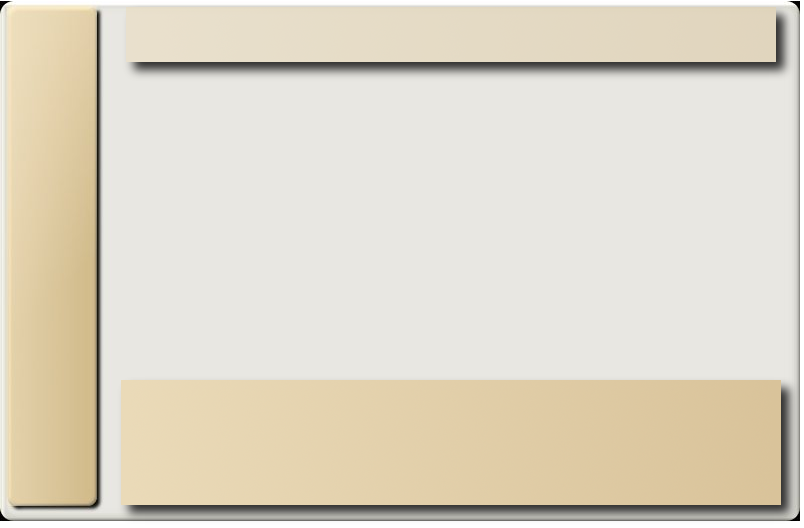
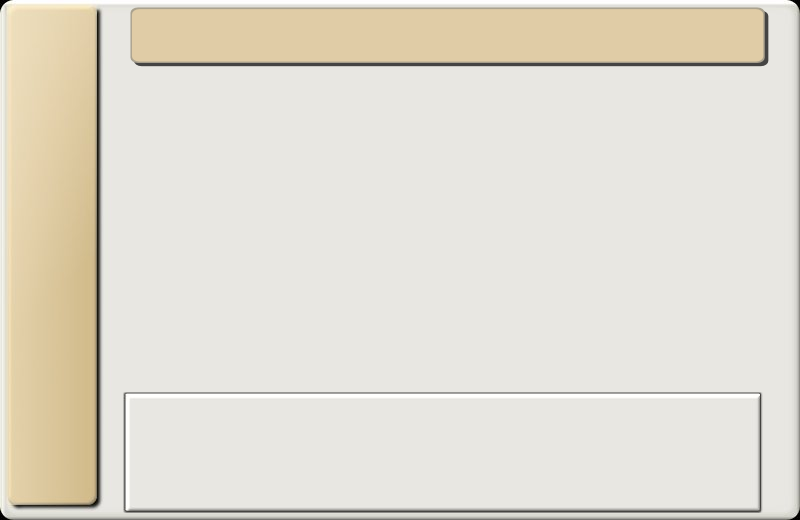
By Anne and Erwan. Released under GPL.
* boards/gcompris/animals/donkey.jpg: By Anne and Erwan. Released under GPL.
	* boards/gcompris/animals/readme.txt:
	* boards/images/README:
	* boards/images/scenery2_background.png: remade Bruno drawing by Herve CHANAL. Released under GPL.
	* boards/skins/babytoy/gcompris-menu2bg.png: remade by Bruno based on Franck Doucet artwork
	* boards/skins/gartoon/gcompris-menu2bg.png: -
	* src/boards/erase.c: added the donkey.
	* src/boards/menu2.c: fixed coordinate to suit the new backgrounds
	* src/boards/python/admin/board_list.py: remove '/' from translation

diff --git a/src/boards/menu2.c b/src/boards/menu2.c
@@ -1,6 +1,6 @@
 /* gcompris - menu2.c
  *
- * Time-stamp: <2006/03/01 23:18:32 bruno>
+ * Time-stamp: <2006/03/21 23:52:35 bruno>
  *
  * Copyright (C) 2000 Bruno Coudoin
  *
@@ -94,21 +94,21 @@ GList *homeBoards = NULL;
 #define P_H 480
 
 #define T_X 175
-#define T_Y 5
+#define T_Y 10
 #define T_W 550
 #define T_H 55
 #define T_INT_X 5
 #define T_ARROW_SIZE 20
 
 #define D_X 175
-#define D_Y 64
+#define D_Y 70
 #define D_W 550
 #define D_H 320
 #define D_INT_X 50
 #define D_INT_Y 5
 
-#define I_X 120
-#define I_Y 380
+#define I_X 140
+#define I_Y 400
 #define I_W 600
 #define I_H 125
 

diff --git a/src/boards/python/admin/board_list.py b/src/boards/python/admin/board_list.py
@@ -233,7 +233,7 @@ class Board_list:
         row_dict[''] =  \
                      model.append(None,
                                   [self.pixbuf_at_height('gcompris/misc/tuxplane.png', height),
-                                   _('Main menu') + '\n' + _('/'),
+                                   _('Main menu') + '\n' + '/',
                                    not board_cell[1].board_id in self.out_dict[self.active_profile.profile_id],
                                    '%s/%s' % (board_cell[1].section,board_cell[1].name), self.pixbuf_configurable(board_cell[1])])
 

diff --git a/src/boards/erase.c b/src/boards/erase.c
@@ -67,6 +67,7 @@ static gchar *imageList[] =
   {
     "gcompris/animals/bear001.jpg",
     "gcompris/animals/black-headed-gull.jpg",
+    "gcompris/animals/donkey.jpg",
     "gcompris/animals/elephanteauxgc.jpg",
     "gcompris/animals/flamentrosegc.jpg",
     "gcompris/animals/girafegc.jpg",
